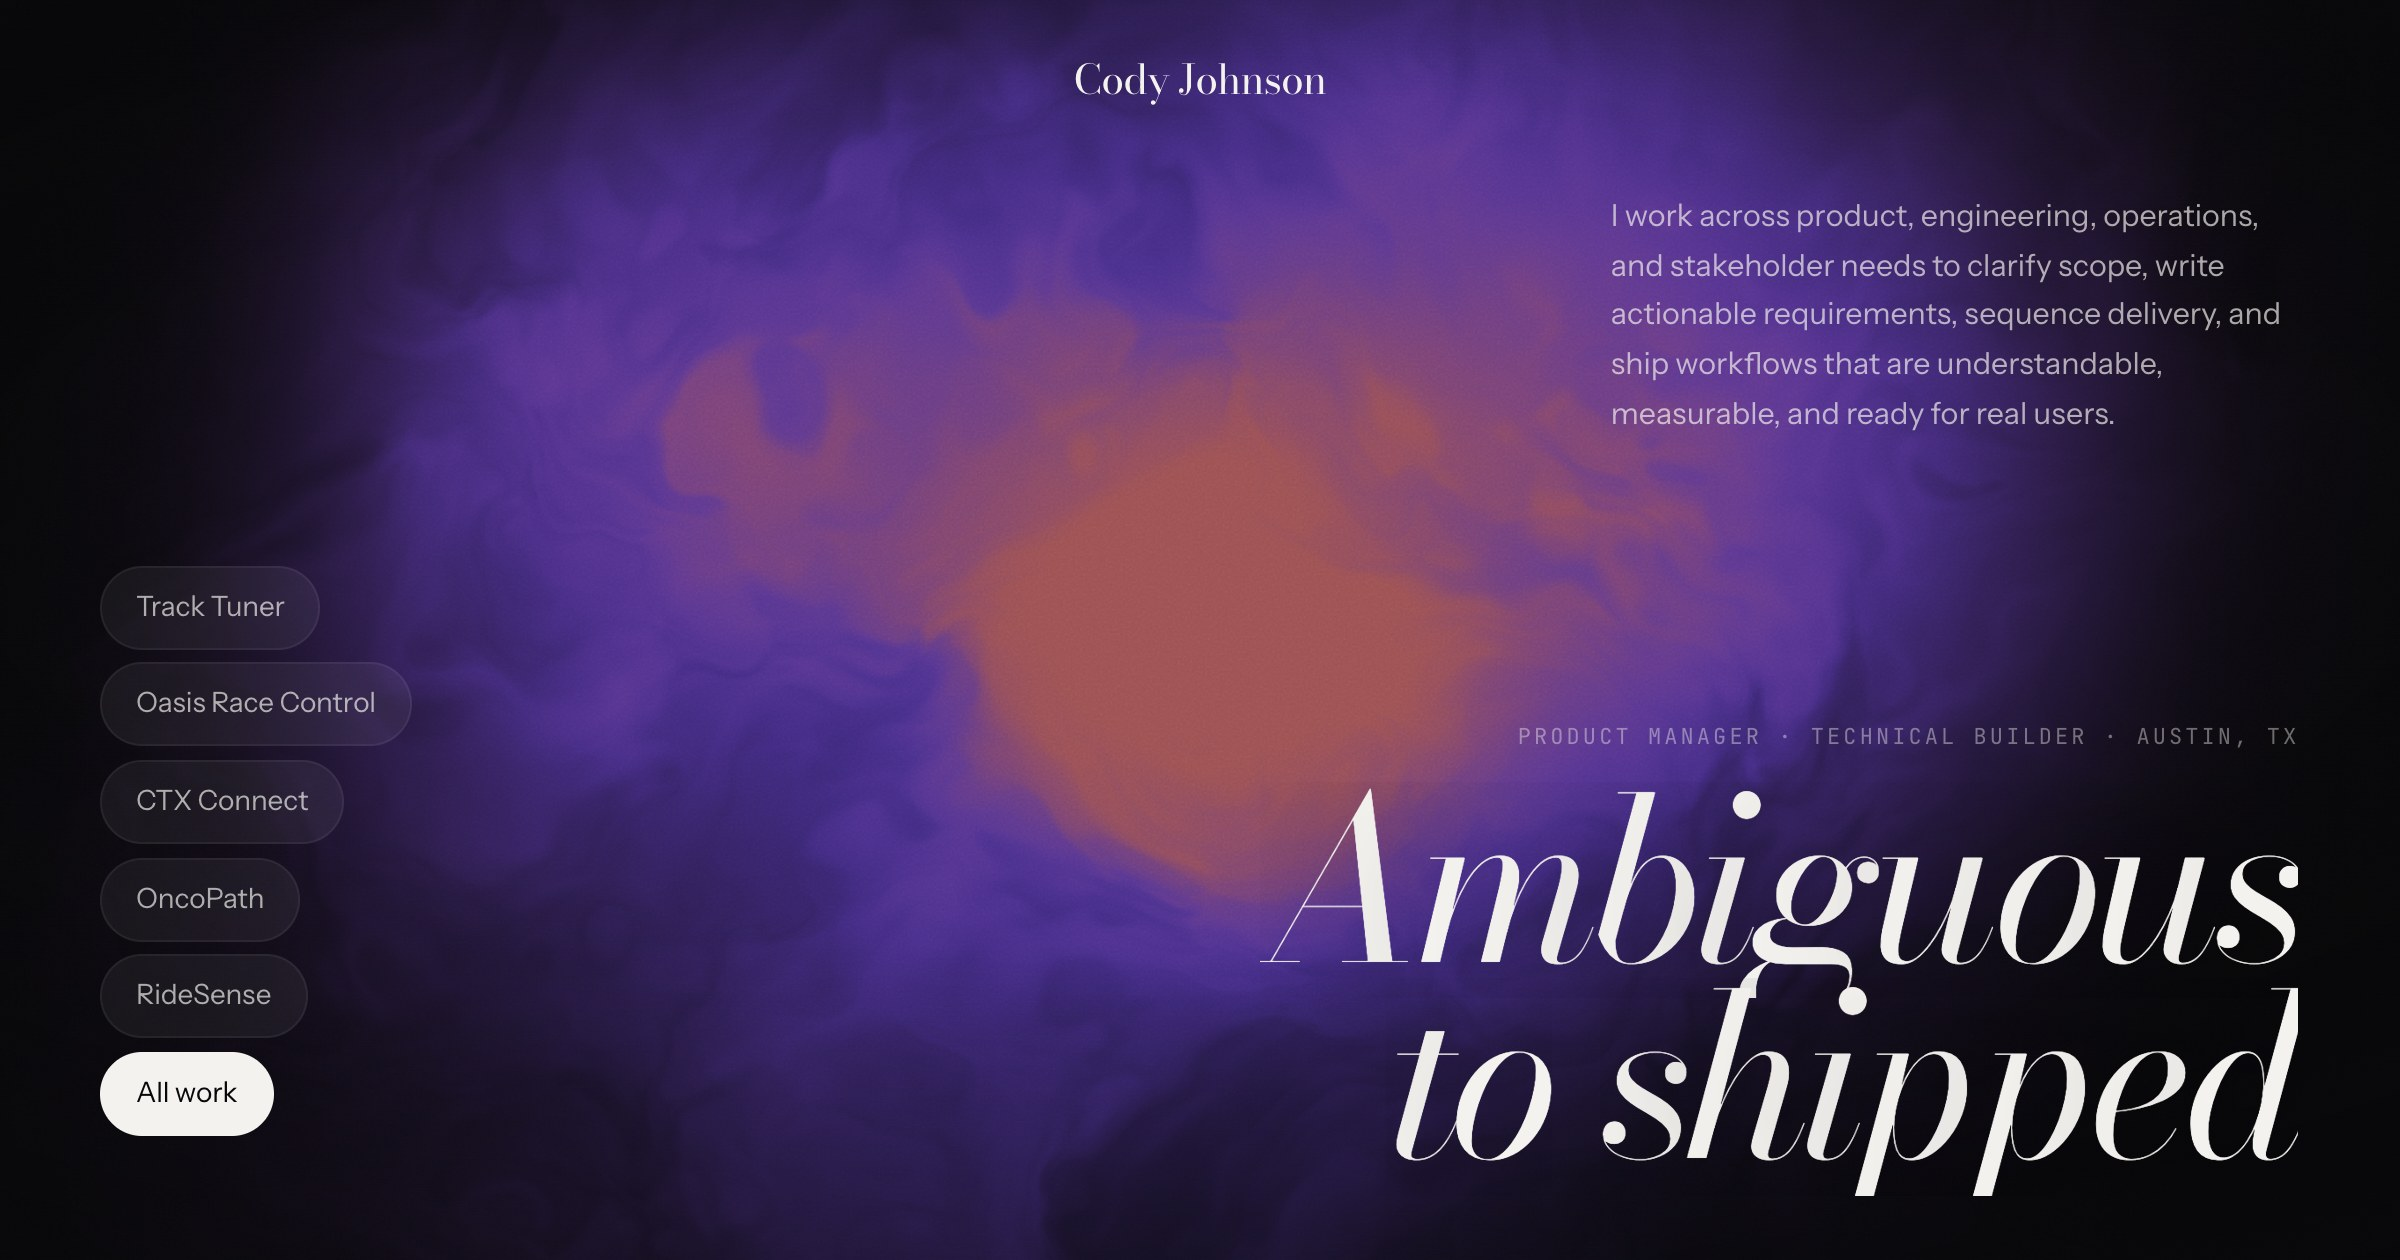
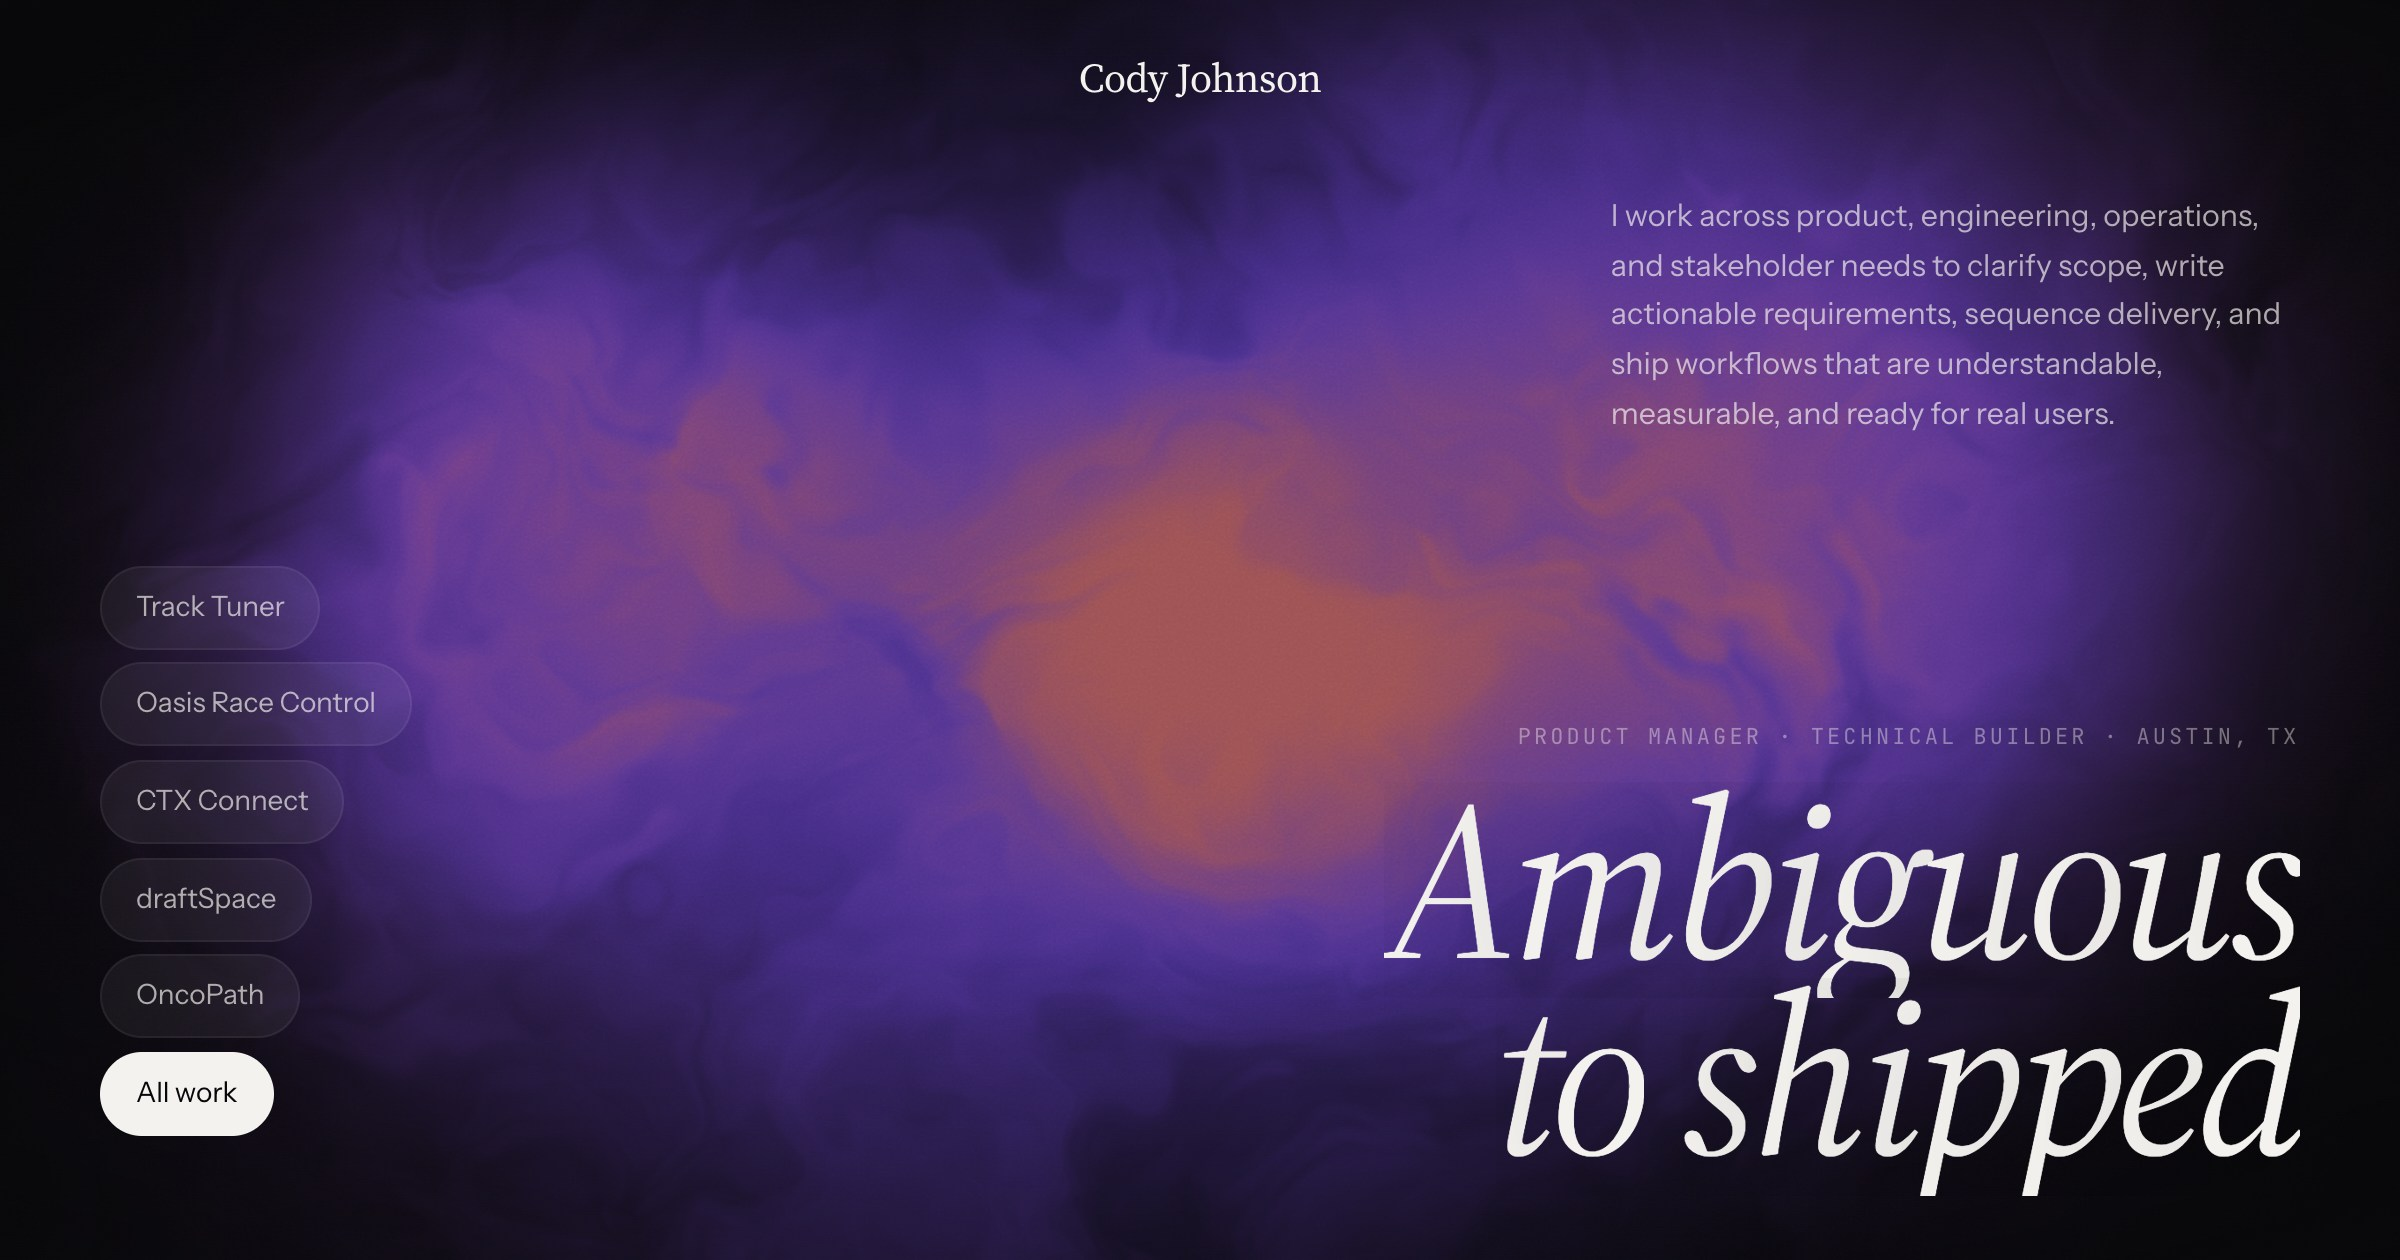
fix(styles): swap the Bodoni Moda display face for Source Serif 4 (#46)
* Replace the Bodoni Moda display face with Source Serif 4

Bodoni Moda is a Didone: extreme stroke contrast and hairline thins. At
heading size it is superb, but on the dark canvas at paragraph and
metadata size the thins optically vanish against the glow of the light
text, taking the strokes that carry letter identity with them. Source
Serif 4 has even stroke weight and holds up small on dark.

- signal.css: --display now points at a Source Serif 4 stack.
- index.html: request Source Serif 4 over its own 8..60 optical-size
  axis, same weight coverage as before (400..700 upright, 400..600
  italic). Bodoni Moda is dropped from the request; nothing references
  it any more.
- bridge.css: .lead stays sans, but the comment no longer claims a
  legibility reason that is no longer true. Checked in the browser at
  1440px and 390px: Source Serif 4 is perfectly readable at .lead's
  ~22px on dark. It stays sans for hierarchy instead, since a .lead sits
  directly above sans card and section copy.

Verified in Chrome at desktop and phone viewports across the home page,
a full product detail page, and both themes. Only three font families
are fetched; no Bodoni request remains.

* no-mistakes(review): Regenerate og-image share card in Source Serif 4

* no-mistakes(document): Document Source Serif 4 font axis range decisions

diff --git a/index.html b/index.html
@@ -63,10 +63,19 @@
     </script>
     <link rel="preconnect" href="https://fonts.googleapis.com" />
     <link rel="preconnect" href="https://fonts.gstatic.com" crossorigin />
-    <!-- Bodoni Moda: high-contrast Didone display. Instrument Sans: UI grotesque.
-         JetBrains Mono: meta labels and counters. -->
+    <!-- Source Serif 4: even-stroke display serif that holds up at paragraph size
+         on the dark canvas. Instrument Sans: UI grotesque.
+         JetBrains Mono: meta labels and counters.
+
+         Two things about the Source Serif 4 request are deliberate. opsz 8..60
+         is that face's own optical-size axis range - signal.css sets
+         font-optical-sizing: auto, so the requested range has to match the
+         face rather than be carried over from a previous one. And the weight
+         ranges match the coverage the old display face had: legacy.css
+         declares font-weight 300 and 350 on some large display elements, and
+         those are meant to keep clamping up to 400, not render lighter. -->
     <link
-      href="https://fonts.googleapis.com/css2?family=Bodoni+Moda:ital,opsz,wght@0,6..96,400..700;1,6..96,400..600&family=Instrument+Sans:ital,wght@0,400..600;1,400..500&family=JetBrains+Mono:wght@400;500&display=swap"
+      href="https://fonts.googleapis.com/css2?family=Source+Serif+4:ital,opsz,wght@0,8..60,400..700;1,8..60,400..600&family=Instrument+Sans:ital,wght@0,400..600;1,400..500&family=JetBrains+Mono:wght@400;500&display=swap"
       rel="stylesheet"
     />
   </head>

diff --git a/src/styles/signal.css b/src/styles/signal.css
@@ -1,6 +1,6 @@
 /* =========================================================================
    SIGNAL - design system for the Cody Johnson portfolio
-   Dark-glass canvas, high-contrast Didone display, live WebGL aurora.
+   Dark-glass canvas, even-stroke transitional serif display, live WebGL aurora.
    Art-directed light + dark. Every surface is a token; nothing is hardcoded.
    ========================================================================= */
 
@@ -37,7 +37,7 @@
   --aurora-lift: 0.0;
 
   /* ---- type ---- */
-  --display: 'Bodoni Moda', 'Didot', 'Bodoni 72', 'Times New Roman', serif;
+  --display: 'Source Serif 4', 'Source Serif Pro', 'Iowan Old Style', Georgia, serif;
   --sans: 'Instrument Sans', -apple-system, BlinkMacSystemFont, 'Segoe UI', system-ui, sans-serif;
   --mono: 'JetBrains Mono', ui-monospace, 'SF Mono', Menlo, monospace;
 

diff --git a/src/styles/bridge.css b/src/styles/bridge.css
@@ -83,8 +83,13 @@
   transform: none;
 }
 
-/* Display serif is for headings only. Legacy set .lead in the serif, which
-   at paragraph length is noticeably harder to read on a dark canvas. */
+/* Display serif is for headings only; .lead is prose, so it stays sans.
+   This started as a legibility workaround for the old Didone display face and
+   was re-checked in the browser after the move to Source Serif 4. Legibility is
+   no longer the reason - Source Serif 4 holds up fine at .lead's ~22px on the
+   dark canvas. The reason now is hierarchy: a .lead sits directly above card
+   and section copy that is sans, so a serif .lead reads as a second heading
+   rather than as the intro paragraph it is. */
 .lead {
   font-family: var(--sans);
   font-weight: 400;
